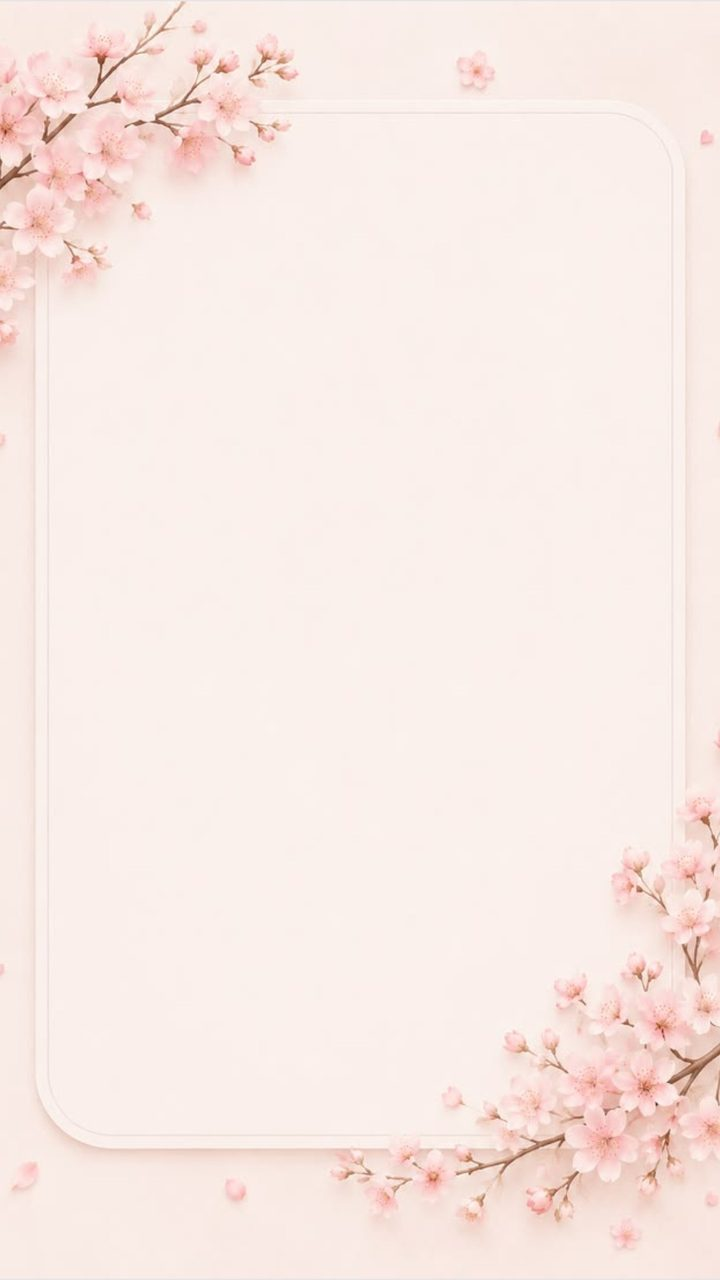
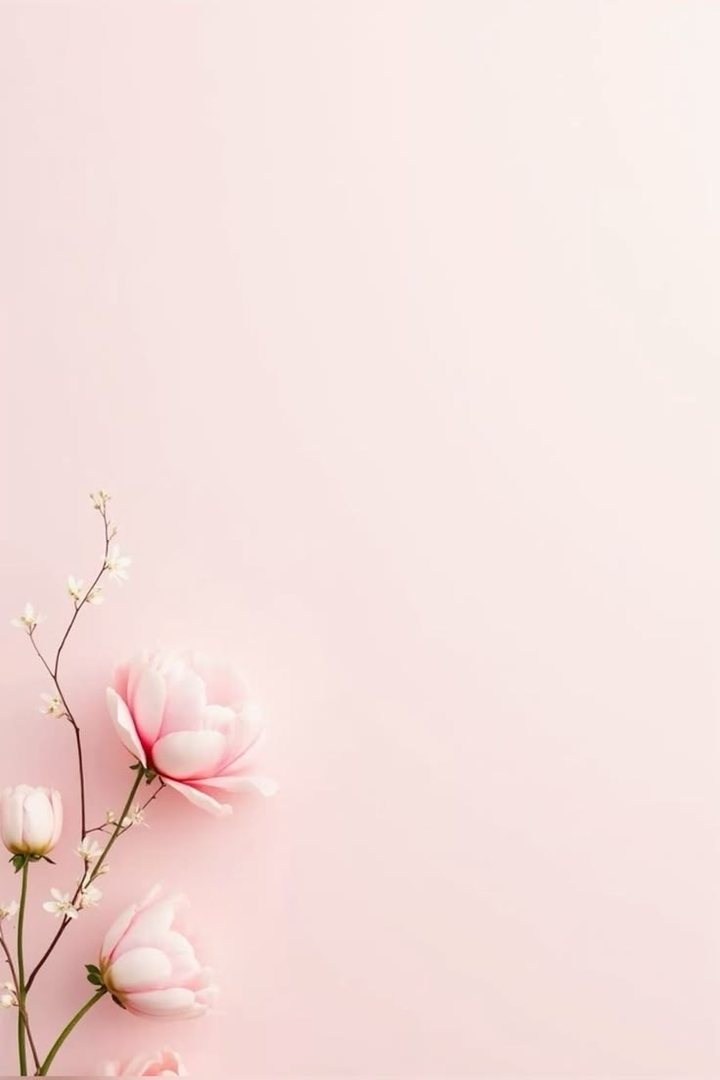
Peony pink background on all pages
Claude-Session: https://claude.ai/code/session_01JHJJcNN1WigQCLhPgRmBLg

diff --git a/index.html b/index.html
@@ -171,22 +171,18 @@ canvas{position:fixed;inset:0;pointer-events:none;z-index:50}
 .poster{width:min(100%,calc((100vh - 32px)*.5625),440px);width:min(100%,calc((100dvh - 32px)*.5625),440px);border-radius:22px;box-shadow:0 20px 50px rgba(106,21,36,.22)}
 @media(max-height:560px) and (orientation:landscape){.poster{width:min(100%,440px)}}
 /* cherry-blossom page background for every page */
-body{background:#fbeee8}
-body::before{content:"";position:fixed;inset:0;z-index:0;background:#fbeee8 url(images/page_bg.jpg) center/cover no-repeat;pointer-events:none}
+body{background:#fbe9e6}
+body::before{content:"";position:fixed;inset:0;z-index:0;background:#fbe9e6 url(images/page_bg.jpg) center/cover no-repeat;pointer-events:none}
 .d.tl,.d.bl,.d.bow,.d.bln,.d.cake{display:none}
 .float{display:none!important}
 /* poster v7: green card fits the white rounded frame of the background image */
-body:has(#s2.active)::before{display:none}
 #s2{padding:0}
-.stage2{position:relative;width:min(100vw,calc(100vh*.5625));width:min(100vw,calc(100dvh*.5625));aspect-ratio:9/16;background:url(images/page_bg.jpg) 0 0/100% 100% no-repeat}
+.stage2{position:relative;width:min(100vw,calc(100vh*.5625));width:min(100vw,calc(100dvh*.5625));aspect-ratio:9/16}
 .stage2 .poster{position:absolute;left:6%;top:8.6%;width:88%;height:80%;aspect-ratio:auto;max-width:none;background-size:100% 100%;border-radius:clamp(14px,5.2vw,26px);box-shadow:0 10px 26px rgba(150,80,80,.22);overflow:hidden}
 .stage2 .sheet{left:21%;top:75.9%;width:40%;height:14.3%}
 .stage2 .poster{overflow:visible}.stage2 .pnav{bottom:auto;top:calc(100% + 1%);padding:0;margin:0}.stage2 .pbtn{padding:9px 16px;font-size:.92rem}
 @media(max-height:560px) and (orientation:landscape){.stage2{width:min(100%,440px)}}
 /* poster v8: background image fades softly into the page colour so there is no second pink layer / seam */
-#s2{background:none}
-.stage2{background:none}
-.stage2::before{content:"";position:absolute;inset:0;z-index:0;background:url(images/page_bg.jpg) 0 0/100% 100% no-repeat;-webkit-mask-image:linear-gradient(to bottom,transparent 0,#000 7%,#000 93%,transparent 100%),linear-gradient(to right,transparent 0,#000 5%,#000 95%,transparent 100%);-webkit-mask-composite:source-in;mask-image:linear-gradient(to bottom,transparent 0,#000 7%,#000 93%,transparent 100%),linear-gradient(to right,transparent 0,#000 5%,#000 95%,transparent 100%);mask-composite:intersect}
 </style>
 </head>
 <body>
